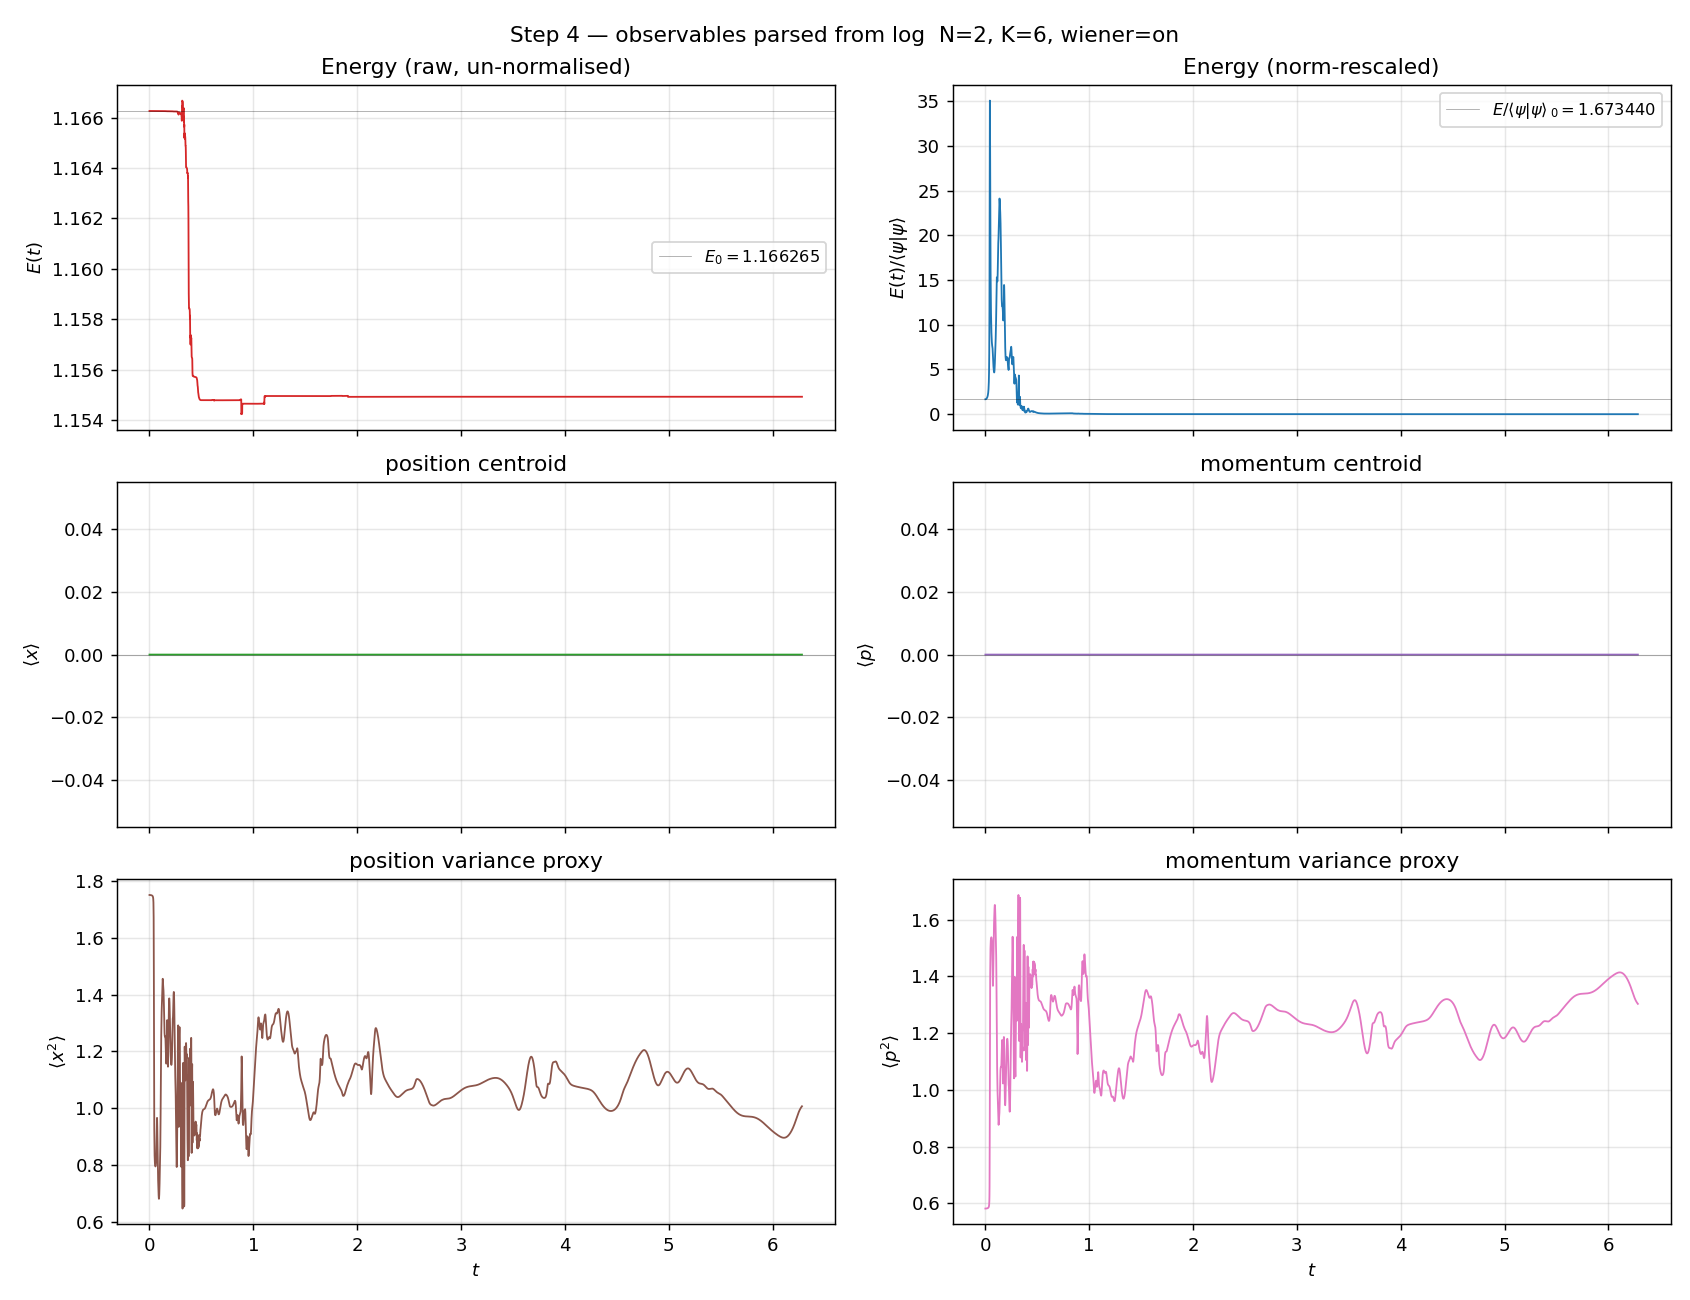
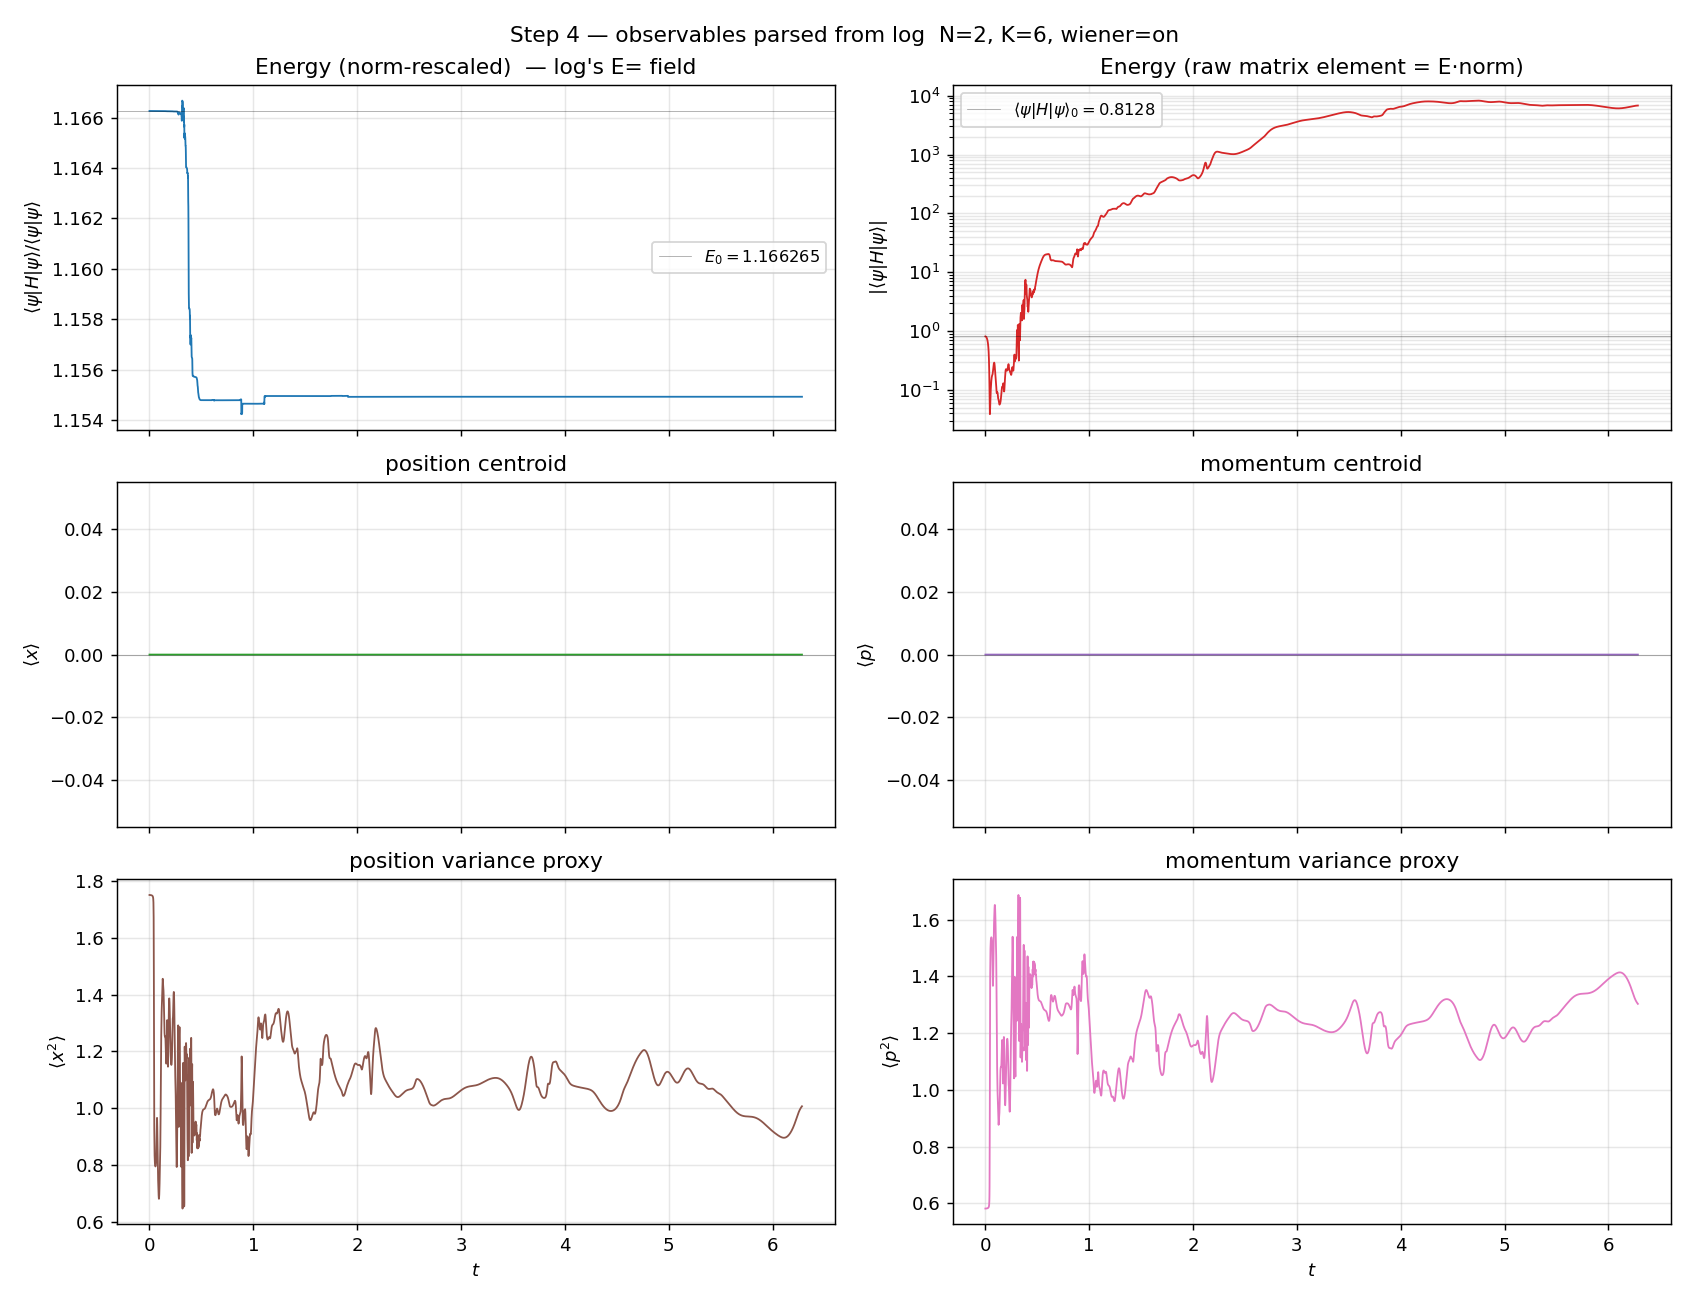
fix the figure

diff --git a/runs/N2K6/plot_log_diagnostics.py b/runs/N2K6/plot_log_diagnostics.py
@@ -129,26 +129,31 @@ def main():
     print(f"wrote {out}")
 
     # ------ observables traced straight from the log ------
+    # Convention reminder: the log's E= field IS the rescaled energy
+    # E_resc = <psi|H|psi> / <psi|psi> (see realtime_tdvp.cpp:489).
+    # Raw matrix element: E_raw = E_resc * norm.
+    E_resc = d["E"]
+    E_raw  = d["E"] * d["norm"]
+
     fig, axes = plt.subplots(3, 2, figsize=(13, 10), sharex=True)
 
     ax = axes[0, 0]
-    ax.plot(t, d["E"], "-", color="C3", lw=1.0)
-    ax.axhline(d["E"][0], color="k", lw=0.4, alpha=0.4,
-               label=fr"$E_0={d['E'][0]:.6f}$")
-    ax.set_ylabel(r"$E(t)$")
-    ax.set_title("Energy (raw, un-normalised)")
+    ax.plot(t, E_resc, "-", color="C0", lw=1.0)
+    ax.axhline(E_resc[0], color="k", lw=0.4, alpha=0.4,
+               label=fr"$E_0={E_resc[0]:.6f}$")
+    ax.set_ylabel(r"$\langle\psi|H|\psi\rangle/\langle\psi|\psi\rangle$")
+    ax.set_title("Energy (norm-rescaled)  — log's E= field")
     ax.legend(fontsize=9)
     ax.grid(alpha=0.3)
 
     ax = axes[0, 1]
-    Enorm = d["E"] / d["norm"]
-    ax.plot(t, Enorm, "-", color="C0", lw=1.0)
-    ax.axhline(Enorm[0], color="k", lw=0.4, alpha=0.4,
-               label=fr"$E/\langle\psi|\psi\rangle\,_0={Enorm[0]:.6f}$")
-    ax.set_ylabel(r"$E(t)/\langle\psi|\psi\rangle$")
-    ax.set_title("Energy (norm-rescaled)")
+    ax.semilogy(t, np.abs(E_raw), "-", color="C3", lw=1.0)
+    ax.axhline(np.abs(E_raw[0]), color="k", lw=0.4, alpha=0.4,
+               label=fr"$\langle\psi|H|\psi\rangle_0={E_raw[0]:.4f}$")
+    ax.set_ylabel(r"$|\langle\psi|H|\psi\rangle|$")
+    ax.set_title("Energy (raw matrix element = E·norm)")
     ax.legend(fontsize=9)
-    ax.grid(alpha=0.3)
+    ax.grid(alpha=0.3, which="both")
 
     ax = axes[1, 0]
     ax.plot(t, d["x"], "-", color="C2", lw=1.0)
@@ -186,55 +191,62 @@ def main():
     plt.close(fig)
     print(f"wrote {out}")
 
-    # ------ dedicated energy figure: raw, rescaled, drift ------
-    Enorm = d["E"] / d["norm"]
-    E0 = d["E"][0]
-    Enorm0 = Enorm[0]
-    dE_raw  = d["E"] - E0
-    dE_resc = Enorm - Enorm0
+    # ------ dedicated energy figure: rescaled (top-left) vs raw (top-right), drifts below ------
+    # Convention: log's E= is rescaled <psi|H|psi>/<psi|psi>. Raw = E * norm.
+    E_resc  = d["E"]
+    E_raw   = d["E"] * d["norm"]
+    E_resc0 = E_resc[0]
+    E_raw0  = E_raw[0]
+    dE_resc = E_resc - E_resc0
+    dE_raw  = E_raw  - E_raw0
+
+    snap_norm = np.interp(snap["t"], t, d["norm"])
+    snap_E_resc = snap["E"]                 # snap CSV stores rescaled E
+    snap_E_raw  = snap["E"] * snap_norm
 
     fig, axes = plt.subplots(2, 2, figsize=(13, 8), sharex=True)
 
     ax = axes[0, 0]
-    ax.plot(t, d["E"], "-", color="C3", lw=1.2, label=r"$\langle\psi|H|\psi\rangle$ (raw)")
-    ax.plot(snap["t"], snap["E"], "o", color="k", ms=5, label="snapshots")
-    ax.axhline(E0, color="k", lw=0.4, alpha=0.4,
-               label=fr"$E_0={E0:.6f}$")
-    ax.set_ylabel(r"$E(t)$ raw")
-    ax.set_title("Raw energy  $\\langle\\psi|H|\\psi\\rangle$  (un-normalised)")
+    ax.plot(t, E_resc, "-", color="C0", lw=1.2,
+            label=r"$\langle\psi|H|\psi\rangle/\langle\psi|\psi\rangle$")
+    ax.plot(snap["t"], snap_E_resc, "o", color="k", ms=5, label="snapshots")
+    ax.axhline(E_resc0, color="k", lw=0.4, alpha=0.4,
+               label=fr"$E_0={E_resc0:.6f}$")
+    ax.set_ylabel(r"$E_{\rm resc}(t)$")
+    ax.set_title("Norm-rescaled energy  (= log's E= field)")
     ax.legend(fontsize=9, loc="best")
     ax.grid(alpha=0.3)
 
     ax = axes[0, 1]
-    ax.plot(t, Enorm, "-", color="C0", lw=1.2,
-            label=r"$\langle\psi|H|\psi\rangle/\langle\psi|\psi\rangle$")
-    ax.plot(snap["t"], snap["E"] / np.interp(snap["t"], t, d["norm"]),
-            "o", color="k", ms=5, label="snapshots (rescaled)")
-    ax.axhline(Enorm0, color="k", lw=0.4, alpha=0.4,
-               label=fr"$E_0/\langle\psi|\psi\rangle_0={Enorm0:.6f}$")
-    ax.set_ylabel(r"$E(t)/\langle\psi|\psi\rangle$")
-    ax.set_title("Norm-rescaled energy")
+    ax.plot(t, E_raw, "-", color="C3", lw=1.2,
+            label=r"$\langle\psi|H|\psi\rangle$")
+    ax.plot(snap["t"], snap_E_raw, "o", color="k", ms=5, label="snapshots")
+    ax.axhline(E_raw0, color="k", lw=0.4, alpha=0.4,
+               label=fr"$\langle\psi|H|\psi\rangle_0={E_raw0:.4f}$")
+    ax.set_ylabel(r"$\langle\psi|H|\psi\rangle$ raw")
+    ax.set_title("Raw matrix element  $\\langle\\psi|H|\\psi\\rangle = E_{\\rm resc}\\cdot\\langle\\psi|\\psi\\rangle$")
     ax.legend(fontsize=9, loc="best")
     ax.grid(alpha=0.3)
 
     ax = axes[1, 0]
-    ax.plot(t, dE_raw, "-", color="C3", lw=1.0)
-    ax.axhline(0.0, color="k", lw=0.4, alpha=0.4)
-    ax.set_xlabel(r"$t$")
-    ax.set_ylabel(r"$E(t)-E_0$")
-    ax.set_title(fr"Raw drift  (max$|dE|=${np.max(np.abs(dE_raw)):.3e})")
-    ax.grid(alpha=0.3)
-
-    ax = axes[1, 1]
     ax.plot(t, dE_resc, "-", color="C0", lw=1.0)
     ax.axhline(0.0, color="k", lw=0.4, alpha=0.4)
     ax.set_xlabel(r"$t$")
-    ax.set_ylabel(r"$E/\langle\psi|\psi\rangle - $ initial")
-    ax.set_title(fr"Rescaled drift  (max$|dE|=${np.max(np.abs(dE_resc)):.3e})")
+    ax.set_ylabel(r"$E_{\rm resc}(t)-E_{\rm resc,0}$")
+    ax.set_title(fr"Rescaled drift  (max$|dE|=${np.max(np.abs(dE_resc)):.3e},  rel={np.max(np.abs(dE_resc))/abs(E_resc0):.3e})")
     ax.grid(alpha=0.3)
 
-    fig.suptitle("Step 4 — energy trajectory  N=2, K=6, wiener=on  (log [WARN] on rel|dE|)",
-                 fontsize=12)
+    ax = axes[1, 1]
+    ax.plot(t, dE_raw, "-", color="C3", lw=1.0)
+    ax.axhline(0.0, color="k", lw=0.4, alpha=0.4)
+    ax.set_xlabel(r"$t$")
+    ax.set_ylabel(r"$\langle\psi|H|\psi\rangle - \langle\psi|H|\psi\rangle_0$")
+    ax.set_title(fr"Raw drift  (max$|dE|=${np.max(np.abs(dE_raw)):.3e},  rel={np.max(np.abs(dE_raw))/abs(E_raw0):.3e})")
+    ax.grid(alpha=0.3)
+
+    fig.suptitle("Step 4 — energy trajectory  N=2, K=6, wiener=on  "
+                 "(log line: rel|dE_resc|=1.03e-2 [WARN], rel|dE_raw|=1.01e+4 [drift])",
+                 fontsize=11)
     fig.tight_layout()
     out = os.path.join(OUT, "fig_step4_energy_N2_K6.png")
     fig.savefig(out, dpi=130)

diff --git a/runs/no_wiener_N1K5/plot_log_diagnostics.py b/runs/no_wiener_N1K5/plot_log_diagnostics.py
@@ -126,24 +126,29 @@ def main():
     print(f"wrote {out}")
 
     # ------ observables traced straight from the log ------
+    # Convention reminder: the log's E= field IS the rescaled energy
+    # E_resc = <psi|H|psi> / <psi|psi> (see realtime_tdvp.cpp:489).
+    # Raw matrix element: E_raw = E_resc * norm.
+    E_resc = d["E"]
+    E_raw  = d["E"] * d["norm"]
+
     fig, axes = plt.subplots(3, 2, figsize=(13, 10), sharex=True)
 
     ax = axes[0, 0]
-    ax.plot(t, d["E"], "-", color="C3", lw=1.0)
-    ax.axhline(d["E"][0], color="k", lw=0.4, alpha=0.4,
-               label=fr"$E_0={d['E'][0]:.6f}$")
-    ax.set_ylabel(r"$E(t)$")
-    ax.set_title("Energy (raw, un-normalised)")
+    ax.plot(t, E_resc, "-", color="C0", lw=1.0)
+    ax.axhline(E_resc[0], color="k", lw=0.4, alpha=0.4,
+               label=fr"$E_0={E_resc[0]:.6f}$")
+    ax.set_ylabel(r"$\langle\psi|H|\psi\rangle/\langle\psi|\psi\rangle$")
+    ax.set_title("Energy (norm-rescaled)  — log's E= field")
     ax.legend(fontsize=9)
     ax.grid(alpha=0.3)
 
     ax = axes[0, 1]
-    Enorm = d["E"] / d["norm"]
-    ax.plot(t, Enorm, "-", color="C0", lw=1.0)
-    ax.axhline(Enorm[0], color="k", lw=0.4, alpha=0.4,
-               label=fr"$E/\langle\psi|\psi\rangle\,_0={Enorm[0]:.6f}$")
-    ax.set_ylabel(r"$E(t)/\langle\psi|\psi\rangle$")
-    ax.set_title("Energy (norm-rescaled)")
+    ax.plot(t, E_raw, "-", color="C3", lw=1.0)
+    ax.axhline(E_raw[0], color="k", lw=0.4, alpha=0.4,
+               label=fr"$\langle\psi|H|\psi\rangle_0={E_raw[0]:.4f}$")
+    ax.set_ylabel(r"$\langle\psi|H|\psi\rangle$")
+    ax.set_title("Energy (raw matrix element = E·norm)")
     ax.legend(fontsize=9)
     ax.grid(alpha=0.3)
 
